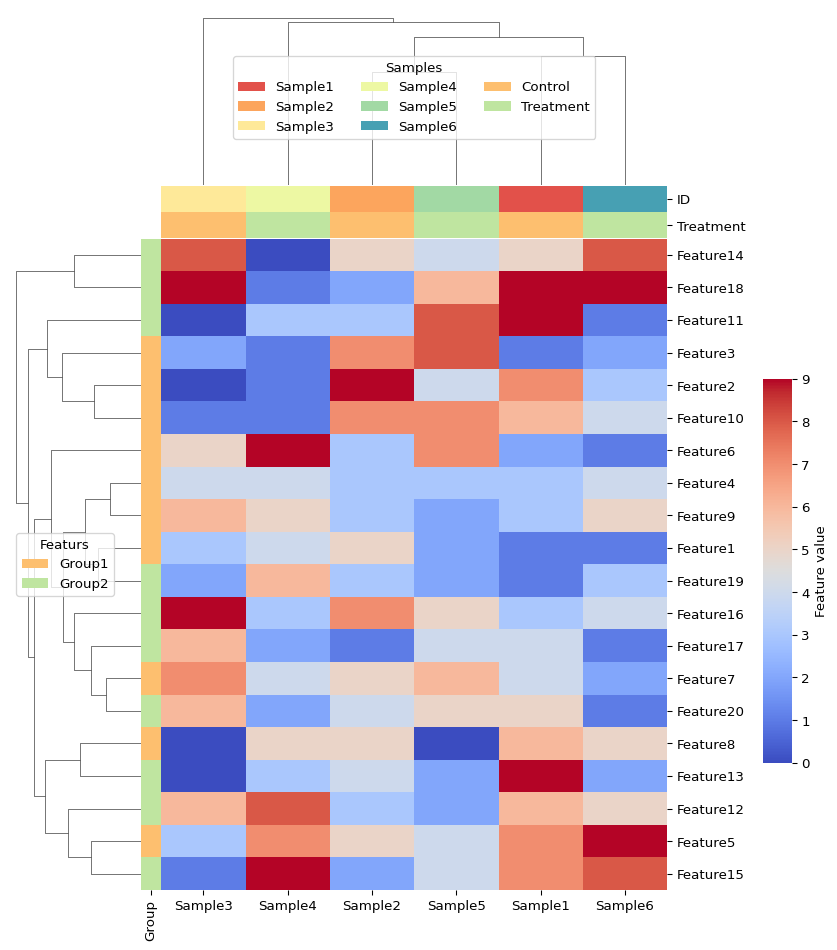
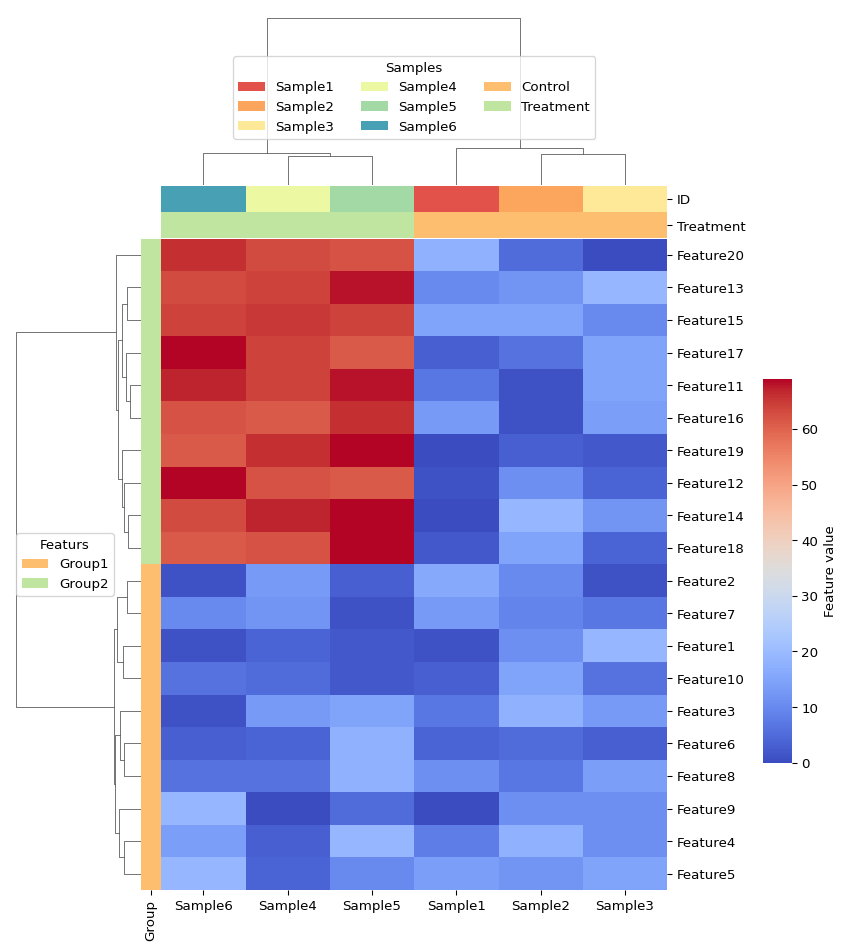
update pydata example data

diff --git a/pydata/pydata.py b/pydata/pydata.py
@@ -73,8 +73,15 @@ class pydata(ldata):
     @staticmethod
     def example_pydata():
         np.random.seed(38)
+        data = np.random.randint(0, 20, size = 60).reshape(10, 6)
+        dat1 = np.random.randint(0, 20, size = 30).reshape(10, 3)
+        dat2 = np.random.randint(60, 70, size = 30).reshape(10, 3)
+        new_dat = []
+        for i in range(0, len(dat1)):
+            new_dat += [np.append(dat1[i], dat2[i])]
+        data = np.append(data, new_dat).reshape(20, 6)
         data = pd.DataFrame(
-            np.random.randint(0, 10, size = 120).reshape(20, 6),
+            data,
             index = ["Feature" + str(i)for i in range(1, 21)], 
             columns = ["Sample" + str(i)for i in range(1, 7)] 
         )

diff --git a/README.md b/README.md
@@ -24,8 +24,8 @@ print(x.annotation.head(2))
     pydata object:
      - Dimensions: 6 (samples) x 20 (features)
               Sample1  Sample2  Sample3  Sample4  Sample5  Sample6
-    Feature1        1        5        3        4        2        1
-    Feature2        7        9        0        1        4        3
+    Feature1        1       11       19        4        2        1
+    Feature2       16       10        1       13        3        1
             ID Treatment
     0  Sample1   Control
     1  Sample2   Control
@@ -50,20 +50,20 @@ print(x.pcs.annotation)
      - Scaling: Zscore
      - Method: SVD
           Sample1   Sample2   Sample3   Sample4   Sample5   Sample6
-    PC1  0.015036 -1.685930 -1.969292  3.881869 -3.136891  2.895207
-    PC2 -3.037243 -1.546258  4.576623  1.268257 -0.858779 -0.402600
-    PC3 -1.994504  1.960133 -1.392191  2.622691  1.015385 -2.211514
-    PC4 -1.855321  2.221158 -0.143624 -1.218673 -0.884526  1.880987
-    PC5 -1.111968 -1.199684 -0.649938 -0.105593  1.948909  1.118274
+    PC1 -3.140591 -3.520674 -3.185890  2.816192  3.928544  3.102418
+    PC2  1.850772 -0.743074 -1.536801  2.752167 -2.715325  0.392261
+    PC3 -0.828635  0.184406  0.456646 -1.375358 -1.784198  3.347140
+    PC4 -1.955908  2.090800 -0.386352  1.168430 -0.554704 -0.362266
+    PC5 -0.784204 -1.037324  1.772208  0.814677 -0.470526 -0.294831
             ID Treatment
     0  Sample1   Control
     1  Sample2   Control
         ID Percentage variance explained
-    0  PC1                     33.343255
-    1  PC2                      29.22442
-    2  PC3                     18.798897
-    3  PC4                      11.83504
-    4  PC5                      6.798388
+    0  PC1                     54.498126
+    1  PC2                     17.867131
+    2  PC3                     14.339572
+    3  PC4                      8.458709
+    4  PC5                      4.836462
 
 ## Plotting
 
